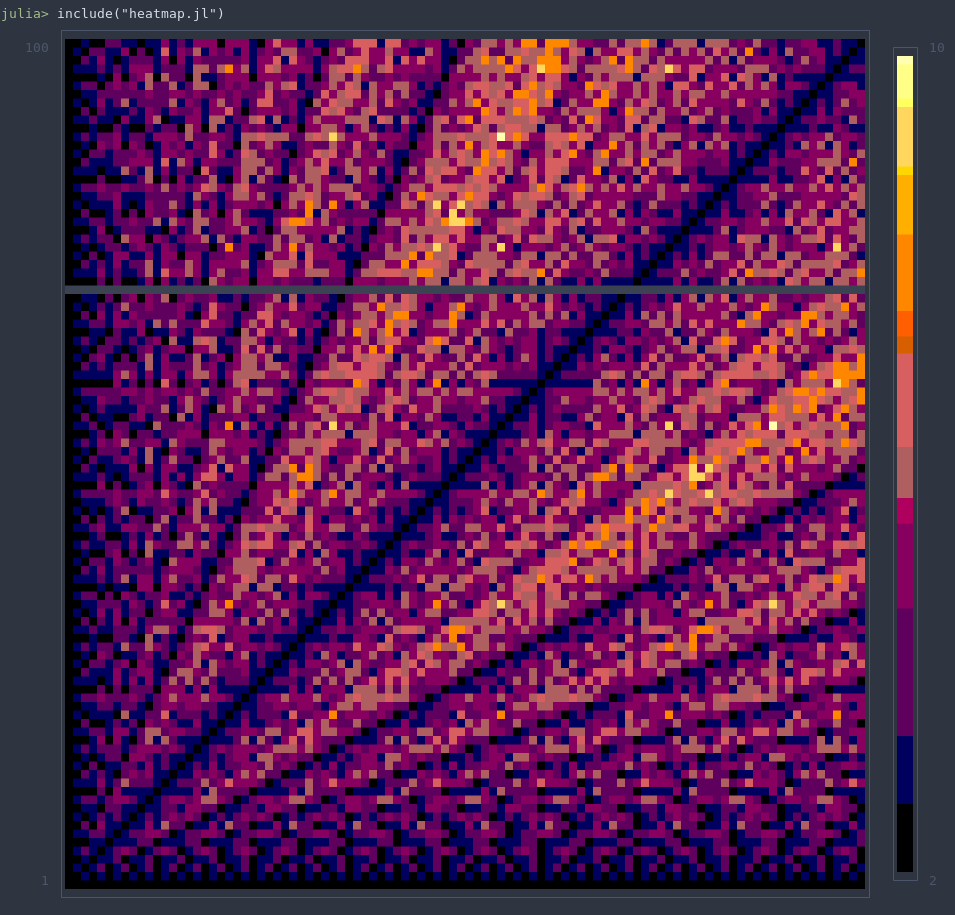
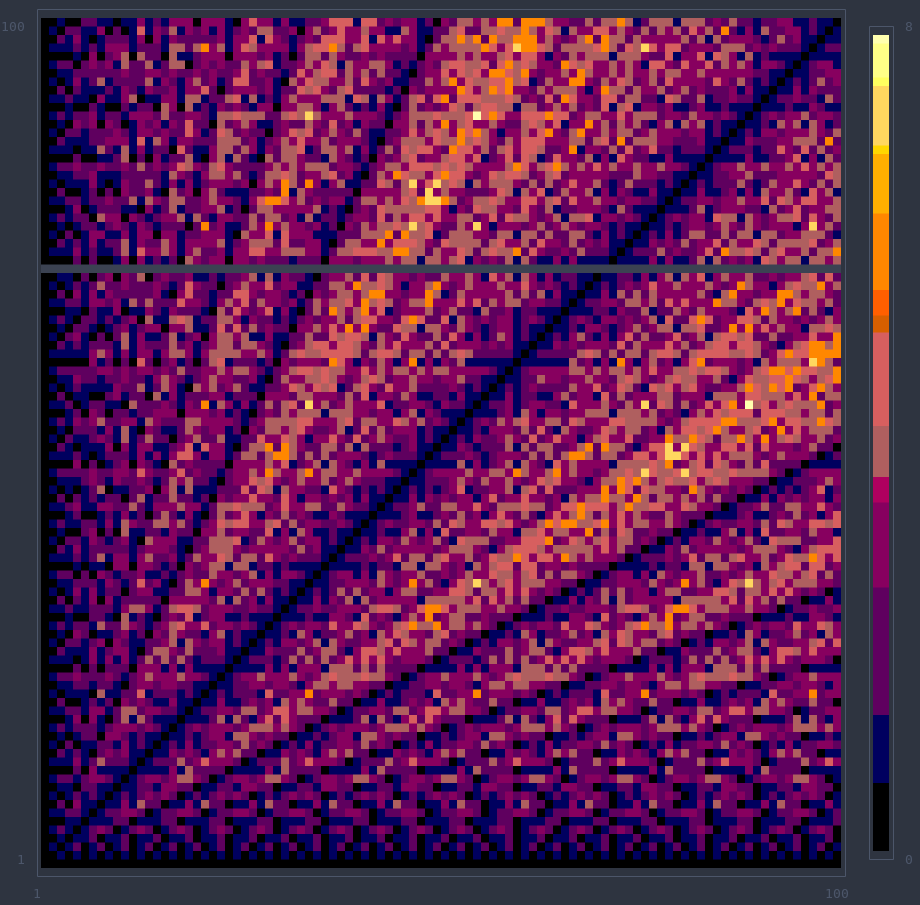
Edited heatmap doc a bit
- Altered Julia script to more precisely reflect what is observed
- Updated screenshot

diff --git a/julia/heatmap.md b/julia/heatmap.md
@@ -38,7 +38,7 @@ end
 
 # Make a matrix of Euclid's algorithm iterations
 function euclid_matrix(m, n)
-  return([length(euclid_silent(i, j)) for i in 1:m, j in 1:n])
+  return([(length(euclid_silent(i, j)) - 2) for i in 1:m, j in 1:n])
 end
 
 # Get the matrix
@@ -63,8 +63,9 @@ is interesting to me are the patterns.  Sort of "fault lines" in the matrix, as
 well as a handful of smaller patterns or clusters.  In particular, there are
 clusters of high and low values making some almost regular shapes, and there
 are lines of high and low values, almost like ridges and valleys.  It appears
-that the minimum number of iterations is 2, and the maximum is 10 (which is
-confirmed in the REPL).
+that the minimum number of iterations is 0, and the maximum is 8 (which is
+confirmed in the REPL).  Note that the minimum length of the object returned is
+2, therefore the number of iterations is the length of the object minus 2.
 
 ### Conclusion
 
